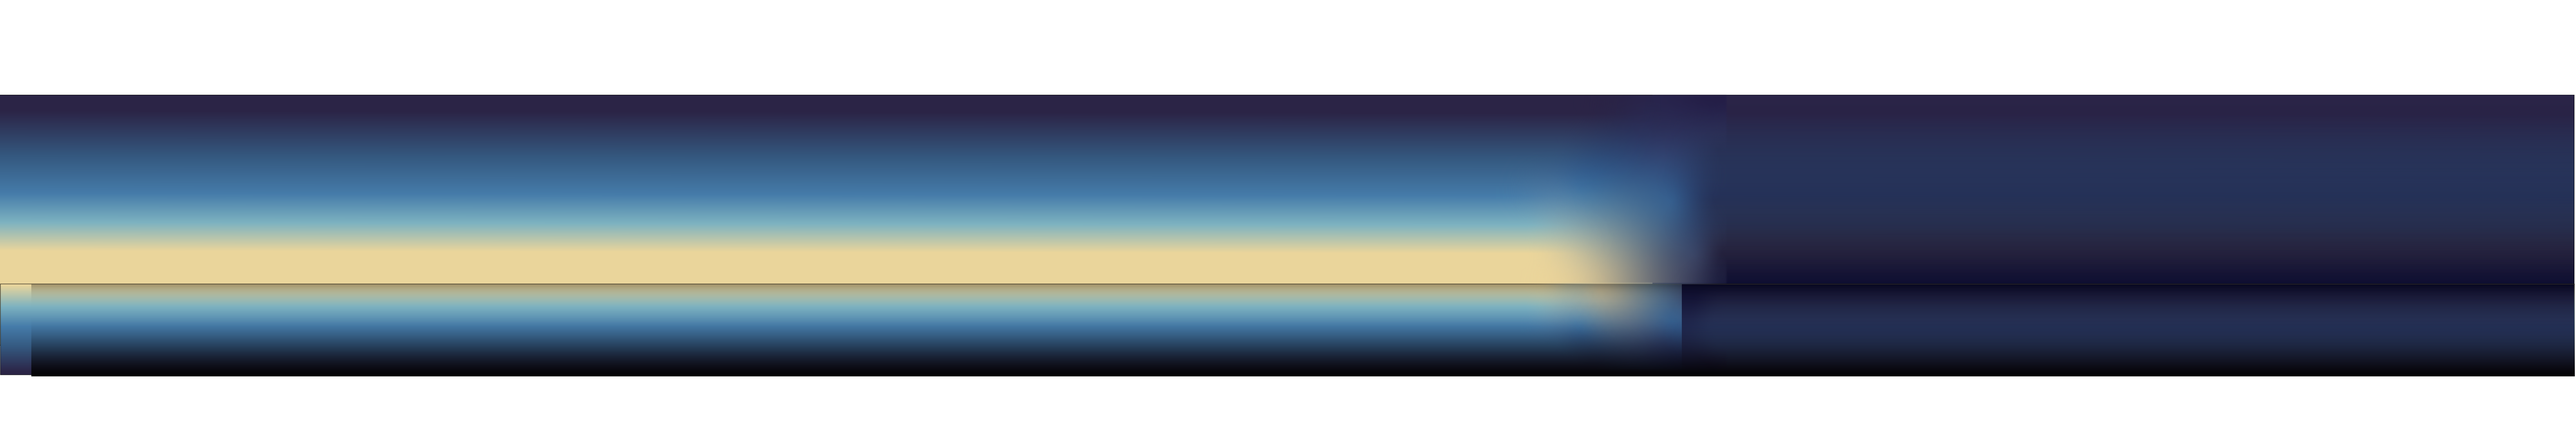
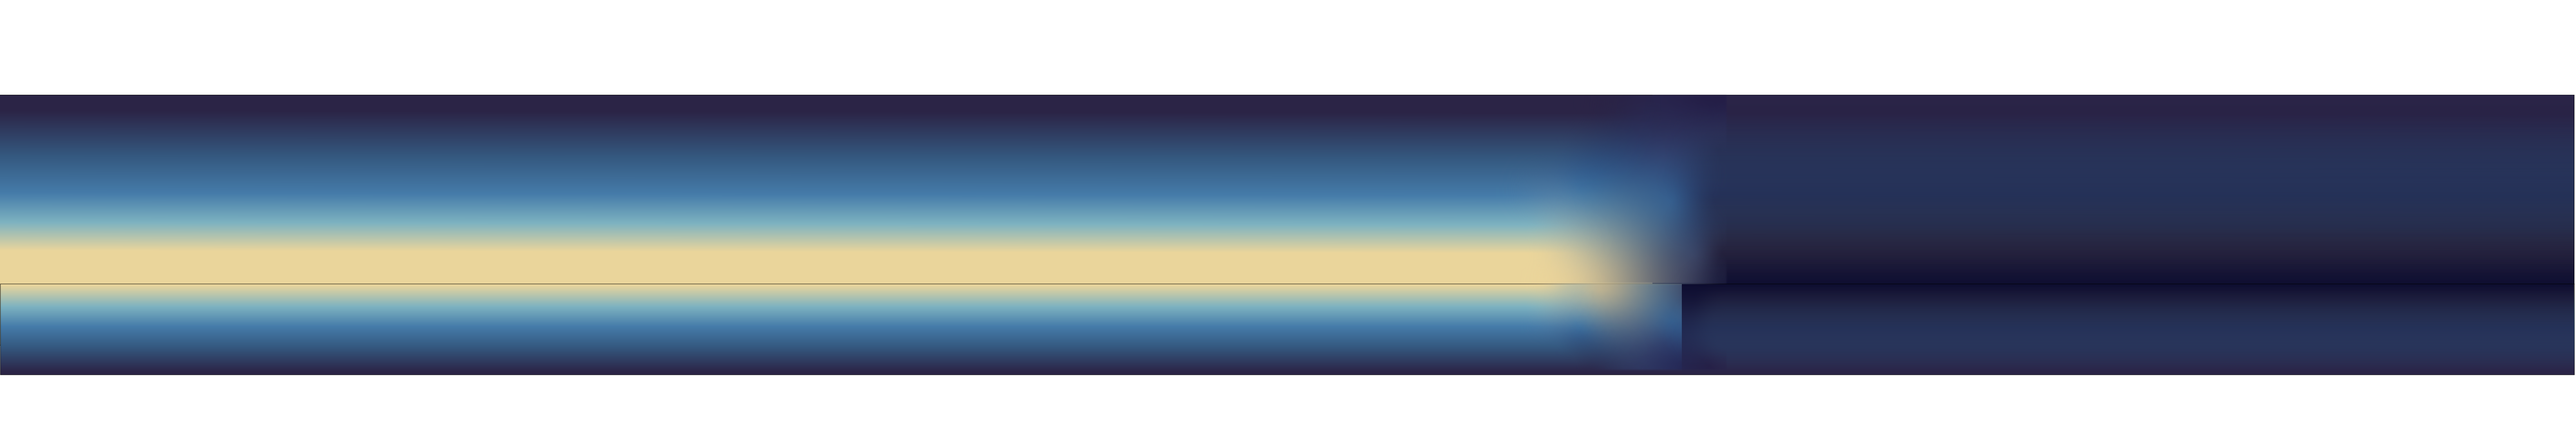
횡스크롤 성공!! 그림만 수정하면 된다!!!!

Changed region(s): [[0.0, 0.7944, 1.0, 0.9167], [0.0, 0.6722, 0.6546, 0.7028]]

diff --git a/Exhibition_Page/page1.5/page1.5.html b/Exhibition_Page/page1.5/page1.5.html
@@ -1,5 +1,5 @@
 <!DOCTYPE html>
-<html lang="en">
+<html lang="en" class=".no-skrollr">
 <head>
     <meta charset="UTF-8">
     <meta http-equiv="X-UA-Compatible" content="IE=edge">
@@ -19,6 +19,29 @@
     <script type='text/javascript' src='/js/jquery.mousewheel.min.js'></script>-->
     <script type='text/javascript' src="page1.5.js"></script>
     <script  src="../js/jquery-3.6.0.js"></script>
+    <script type='text/javascript' src='https://deanoakley.com/assets/js/jquery/jqueryb8ff.js?ver=1.12.4'></script>
+	<script type='text/javascript' src='https://deanoakley.com/assets/js/jquery/jquery-migrate.min330a.js?ver=1.4.1'></script>
+    <script type='text/javascript' src='https://deanoakley.com/assets/themes/deanoakley/jquery.mousewheela07c.js?ver=4.6.11'></script>
+		<script type="text/javascript">
+
+		    jQuery(document).ready(function($) {
+
+		        $("html, body, *").mousewheel(function(event, delta) {
+		        this.scrollLeft -= (delta * 20);
+		        });
+
+			    jQuery(".scroll").click(function(event){
+				    event.preventDefault();
+
+				    if( $(window).width() > 1024 ){
+					    jQuery('html,body').animate({scrollLeft:$(this.hash).offset().left}, 500);
+				    }
+				    else{
+					    jQuery('html,body').animate({scrollTop:$(this.hash).offset().top}, 500);
+				    }
+			    });
+		    });
+	    </script>
 </head>
 
 <body>
@@ -49,6 +72,7 @@
             <img src="images2/bg/bgFirst.png" alt="배경-1" class="img" id="bg-1" height="80%">
             <img src="images2/bg/bgSecond.png" alt="배경-2" class="img" id="bg-2" height="80%">
             <img src="images2/bg/bgStar.png" alt="배경-3(star)" class="img" id="bg-3(star)" height="80%">
+            <img src="images2/bg/bgmoonlight.png" alt="배경-달빛" class="img" id="bg-moonlight" height="80%">
             
             
             <img src="images2/bg/bgShootingStar.png" alt="배경-별똥별" class="img bg-shooting" id="bg-shooting">
@@ -66,6 +90,9 @@
             </div>
         </div>
     </div>
-    
+    <article>
+        
+    </article>
+
 </body>
 </html>

diff --git a/Exhibition_Page/page1.5/page1.5.js b/Exhibition_Page/page1.5/page1.5.js
@@ -1,4 +1,4 @@
-var bg, bgFirst, bgSecond, bgStar, bgShootingStar, bgMoon;
+var bg, bgFirst, bgSecond, bgStar, bgShootingStar, bgMoon, bgMoonlight;
 var Building, Train, Pillars, Fadeout;
 var Subway, SubwayHandle, SubwaySeat;
 let x = 0;
@@ -17,6 +17,7 @@ window.onload = function(){
     bgStar = document.getElementById("bg-3(star)");
     bgShootingStar = document.getElementById("bg-shooting");
     bgMoon = document.getElementById("bg-moon"); //배경 중 유일하게 움직이지 않도록
+    bgMoonlight = document.getElementById("bg-moonlight");
 
     Building = document.getElementById("building");
     Train = document.getElementById("train");
@@ -35,9 +36,11 @@ window.onload = function(){
         bgStar.style.transform = "translateX("+ -scroll/10 + "px)";
         bgFirst.style.transform = "translateX("+ -scroll/8 + "px)";
         bgSecond.style.transform = "translateX("+ -scroll/6 + "px)";
-        bgMoon.style.transform = "translateX("+ -scroll/20 + "px)";
+        bgMoon.style.transform = "translateX("+ scroll/1.01 + "px)";
+        bgMoonlight.style.transform = "translateX("+ scroll/1.5 + "px)";
 
         Pillars.style.transform = "translateX("+ -scroll/0.5 + "px)";
+        Train.style.transform = "translateX("+ scroll/3 + "px)";
     
         window.addEventListener('resize', stageResize, false);
         window.addEventListener('mousemove', mouseMove, false);

diff --git a/Exhibition_Page/page1.5/style_page1.5.css b/Exhibition_Page/page1.5/style_page1.5.css
@@ -125,10 +125,16 @@ body{
 }
 
 #bg-moon{ 
-    position: fixed; /*달은 안움직임*/
+    position: absolute;
     top: 10em;
-    left: 50em;
+    left: 28em;
 }
+
+/* #bg-moonlight{
+    
+    
+    
+} */
 
 #train{
     position: absolute;
@@ -155,3 +161,4 @@ body{
     left: -1.5em;
 }
 /*지하철 끝*/
+
